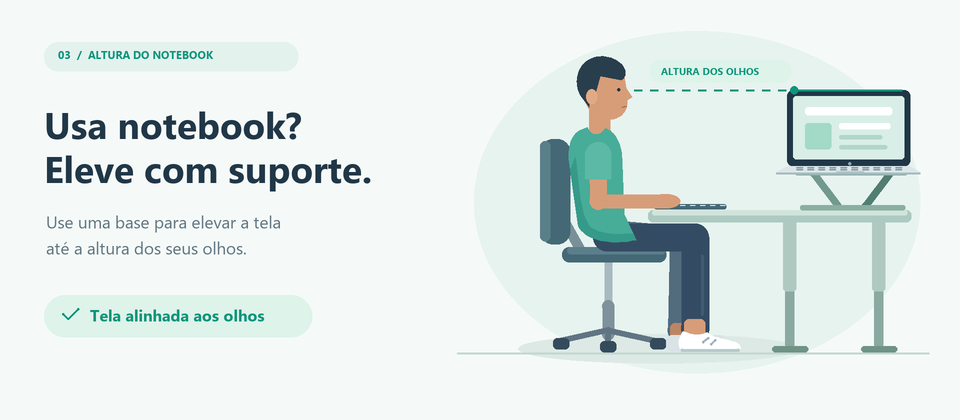
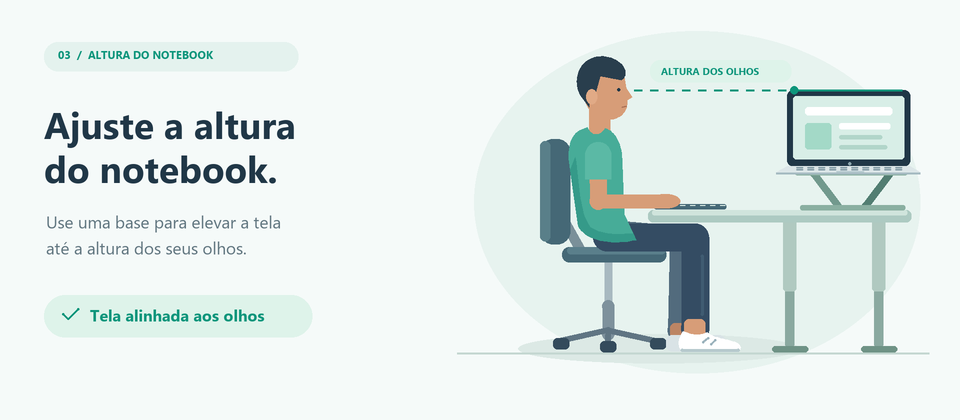
feat: "orienta diretamente o ajuste de altura do notebook"

Changed region(s): [[0.0312, 0.2476, 0.4062, 0.4643]]

diff --git a/scripts/generate_calibration_monitor.py b/scripts/generate_calibration_monitor.py
@@ -76,8 +76,8 @@ def render(progress=0, notebook=False):
     canvas.box((44, 42, 298, 71), "#e4f2ee", 14)
     canvas.text((58, 47), "03  /  ALTURA DO NOTEBOOK" if notebook else "03  /  ALTURA DO MONITOR", 11, GREEN, True)
     if notebook:
-        canvas.text((44, 99), "Usa notebook?", 37, INK, True)
-        canvas.text((44, 143), "Eleve com suporte.", 37, INK, True)
+        canvas.text((44, 99), "Ajuste a altura", 37, INK, True)
+        canvas.text((44, 143), "do notebook.", 37, INK, True)
         canvas.text((46, 210), "Use uma base para elevar a tela", 17, MUTED)
         canvas.text((46, 236), "até a altura dos seus olhos.", 17, MUTED)
     else:
